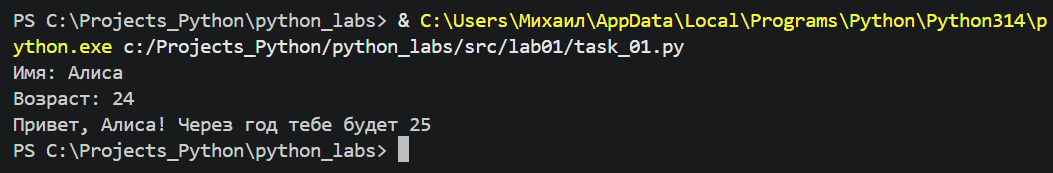
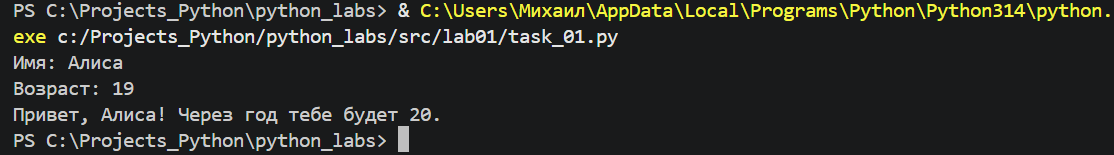
correct_tasks

diff --git a/src/lab01/task_01.py b/src/lab01/task_01.py
@@ -1,4 +1,4 @@
 name = input('Имя: ')
 age = int(input('Возраст: '))
 newage = age + 1
-print(f'Привет, {name}! Через год тебе будет {newage}')
+print(f'Привет, {name}! Через год тебе будет {newage}.')

diff --git a/src/lab01/task_02.py b/src/lab01/task_02.py
@@ -3,4 +3,4 @@ b = float(input('b = ').replace(',', '.'))
 sum = a + b
 avg = (a + b) / 2
 
-print(f"sum ={sum : .2f}, avg ={avg : .2f}")
+print(f"sum ={sum : .2f}; avg ={avg : .2f}")
